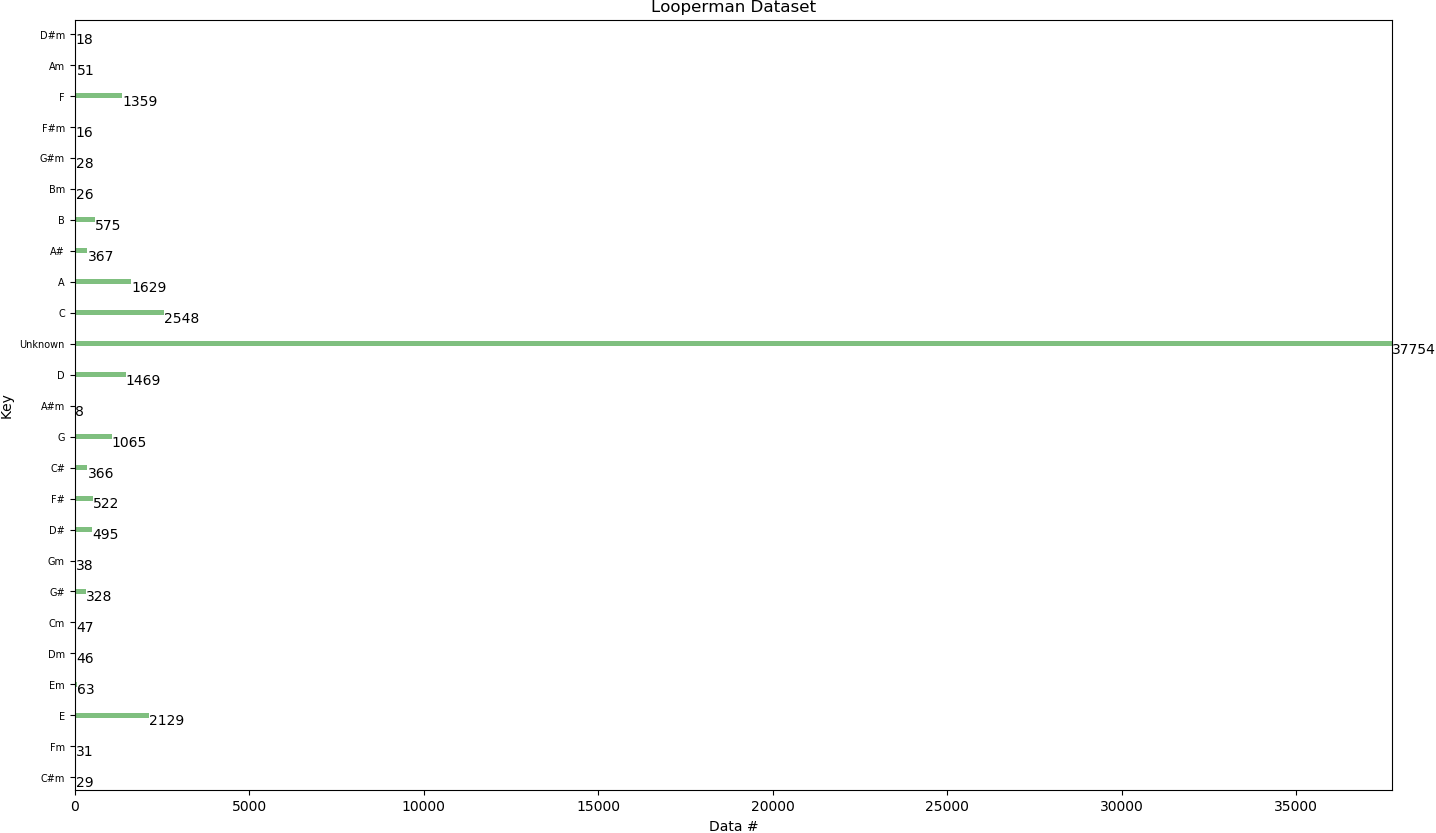
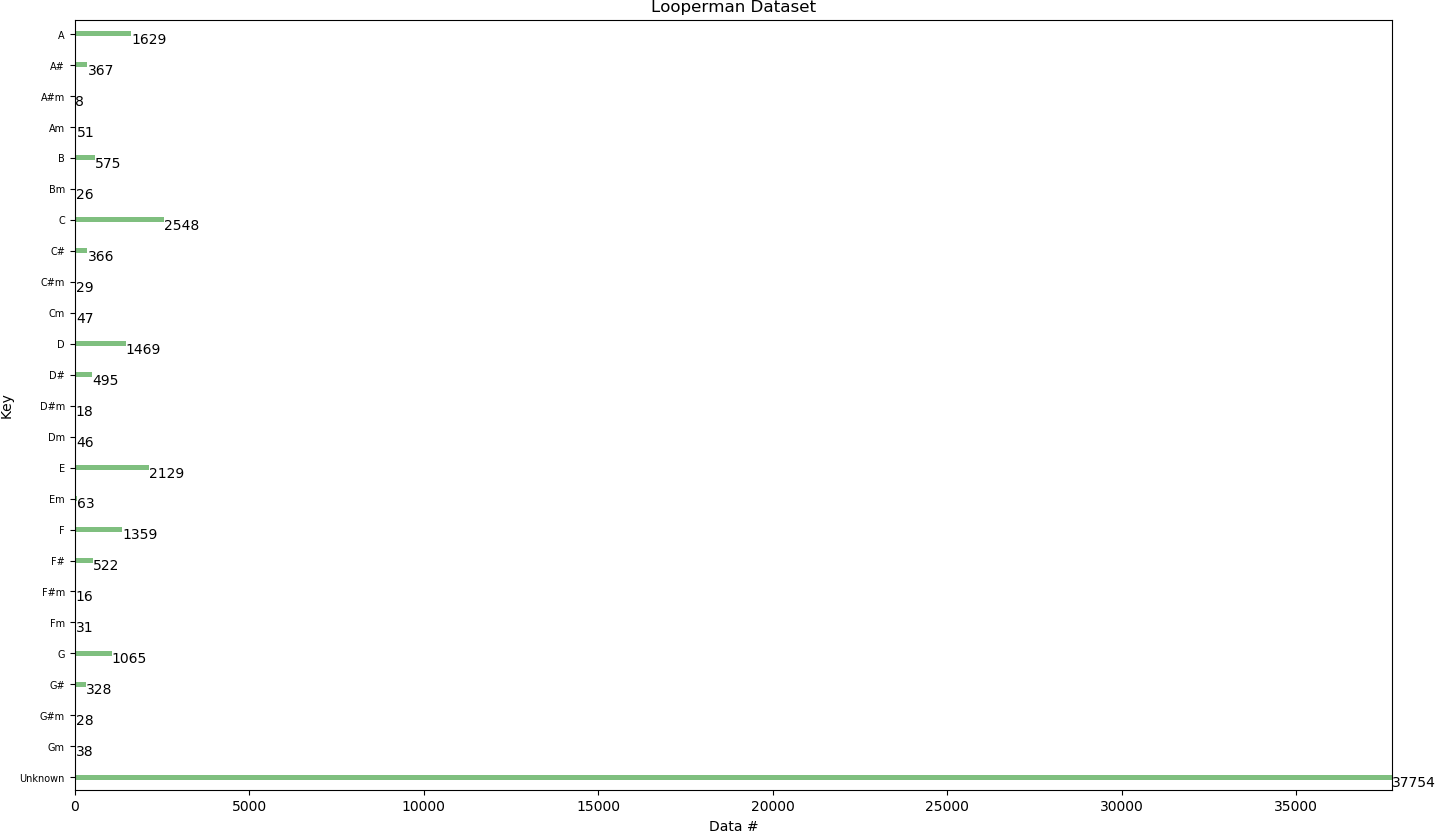
Update key graph

diff --git a/plot.py b/plot.py
@@ -3,8 +3,8 @@ import matplotlib.pyplot as plt
 import json
 
 G_FLAG = False
-B_FLAG = True
-K_FLAG = False#True
+B_FLAG = False#True
+K_FLAG = True
 
 dataf = 'data_draw.txt'#'data_all.txt'#input('Enter data file name:')
 out = 'out.txt'#input('Enter output data file name:')
@@ -99,10 +99,13 @@ if(B_FLAG):
 if(K_FLAG):
     print('--------------------KEY--------------------')
     # by Keys
-    ts = [t for t in key]
+    k = sorted(key.items(), key=lambda a:a[0], reverse=True)
+    ts = [t[0] for t in k]
+    vs = [t[1] for t in k]
+    #ts = [t for t in key]
     s = 5
     y_pos = np.arange(0, len(ts)*s, s)
-    vs = [key[t] for t in key]
+    #vs = [key[t] for t in key]
     print(len(key))
     print(key)
 
